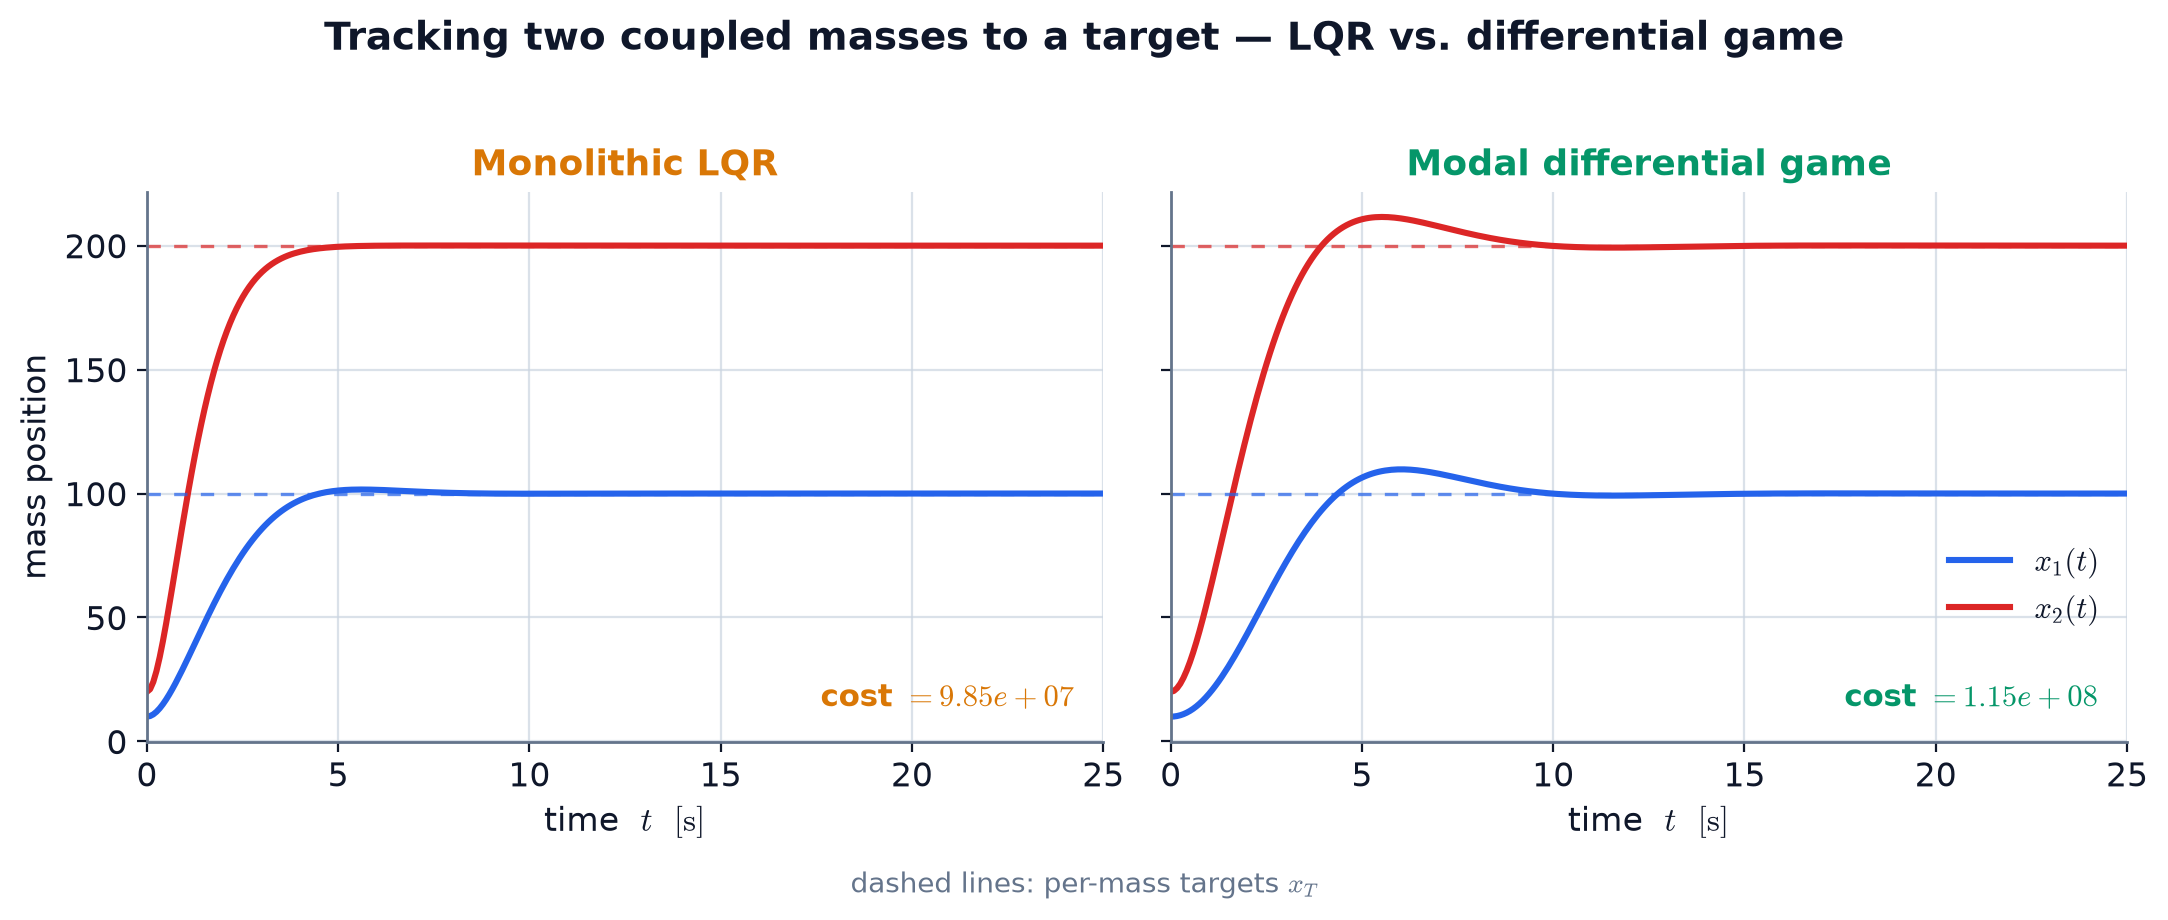
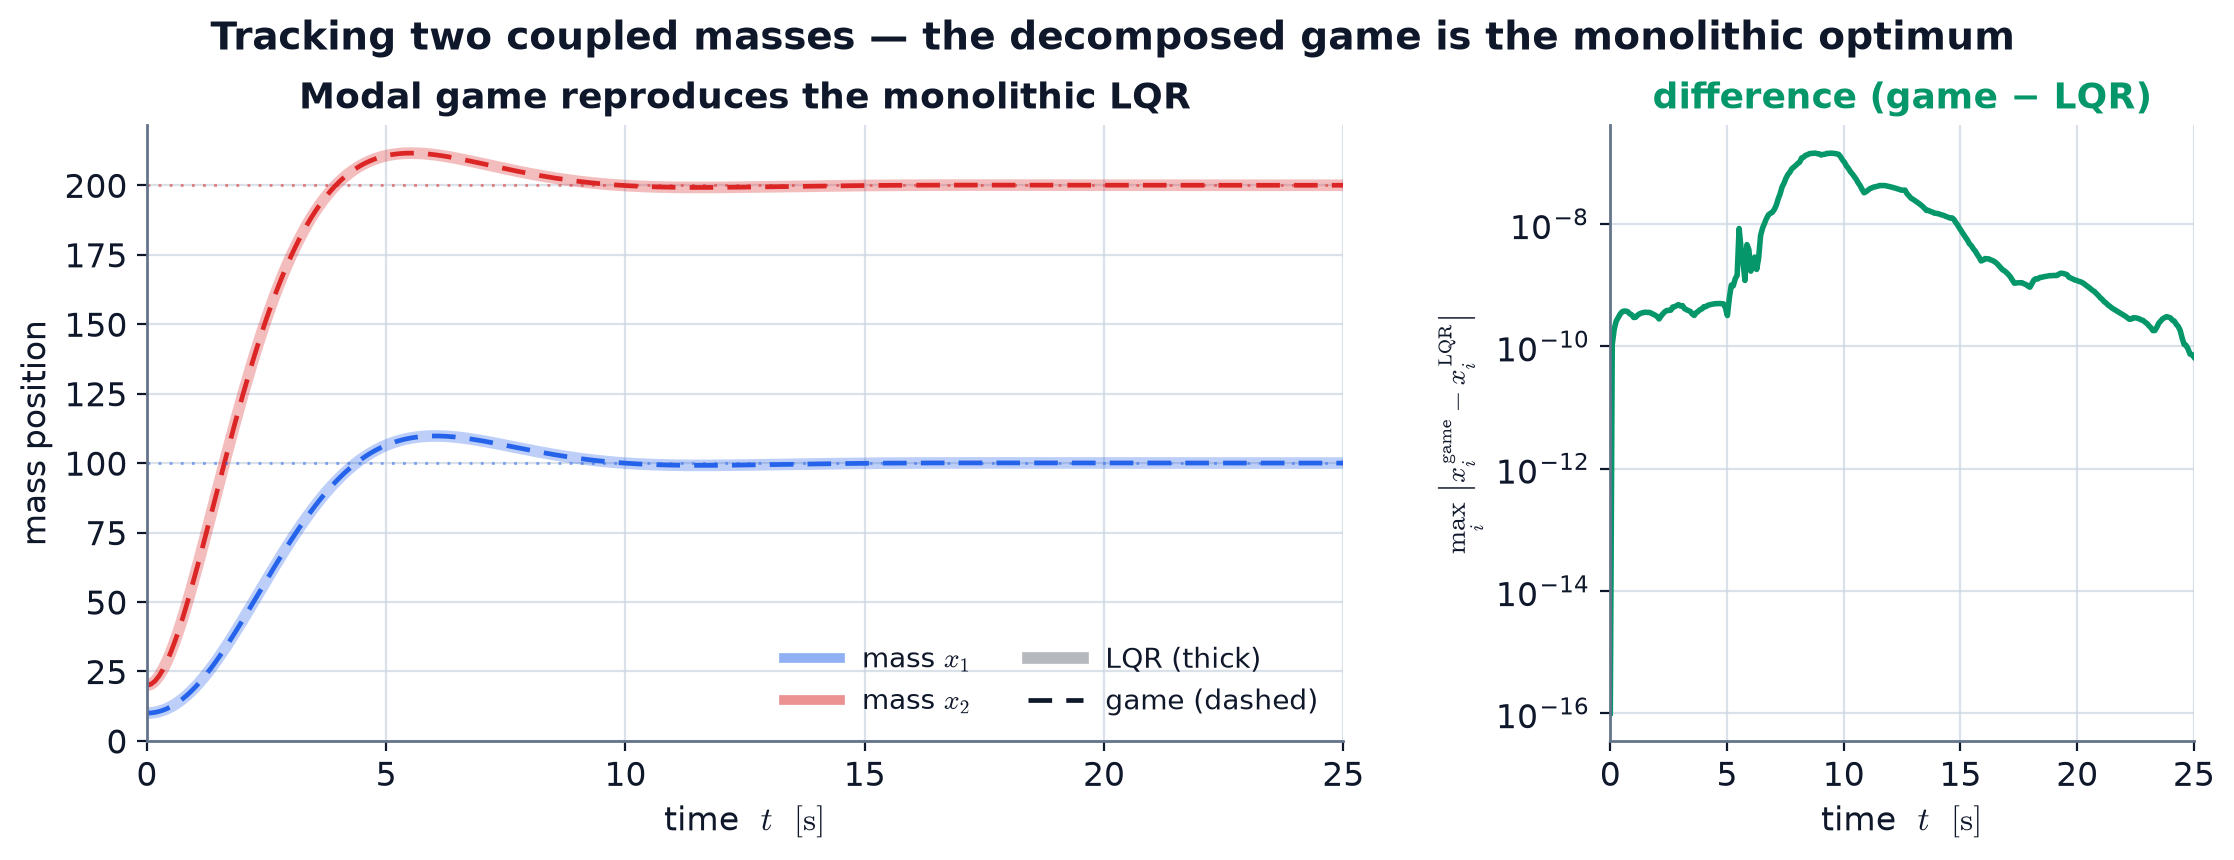
Fix masses comparison fairness; redraw springs as helical coils
Simulations review (critical finding): the masses LQR-vs-game comparison
was scored on the LQR's own, cheaper objective (Q in physical coords,
R=0.25r), making the LQR look optimal by construction. Fix the LQR
baseline to optimize the exact aggregate of the game's objectives
(sum_i Q_i, R=r*I). The decomposed modal game then reproduces the
monolithic optimum to numerical precision (cost gap ~1e-11, trajectory
difference ~1e-7): the modal decomposition is lossless.

Figures review: replace the ellipse-chain springs with a continuous
helical coil; redesign the trajectory figure as an LQR/game overlay plus
a difference panel; make the cost figure show the lossless result; fix
legend/title collisions. README narrative updated to the honest result.

Claude-Session: https://claude.ai/code/session_013KvuS9HKbnZAwwFJyBkyHc

diff --git a/tools/generate_readme_figures.py b/tools/generate_readme_figures.py
@@ -20,7 +20,8 @@ matplotlib.use("Agg")
 import matplotlib.pyplot as plt
 import numpy as np
 from cycler import cycler
-from matplotlib.patches import Ellipse, FancyArrowPatch, Rectangle
+from matplotlib.lines import Line2D
+from matplotlib.patches import FancyArrowPatch, Rectangle
 
 from PyDiffGame.examples.MassesWithSpringsComparison import MassesWithSpringsComparison
 
@@ -80,28 +81,25 @@ def _style() -> None:
 # --------------------------------------------------------------------------- #
 # Figure 1 — masses-and-springs system schematic (faithful to the TikZ original)
 # --------------------------------------------------------------------------- #
-def _coil(ax, x0: float, x1: float, y: float, *, radius: float = 0.32) -> None:
-    """Draw a helical coil spring between ``(x0, y)`` and ``(x1, y)``."""
-    lead = 0.08 * (x1 - x0)
-    ax.plot([x0, x0 + lead], [y, y], color=STRUCT, lw=2.0, solid_capstyle="round", zorder=2)
-    ax.plot([x1 - lead, x1], [y, y], color=STRUCT, lw=2.0, solid_capstyle="round", zorder=2)
+def _coil(ax, x0: float, x1: float, y: float, *, radius: float = 0.34, coils_per_unit: float = 3.2) -> None:
+    """Draw a continuous, tightly-wound helical coil spring between ``(x0, y)`` and ``(x1, y)``.
 
-    span = (x1 - lead) - (x0 + lead)
-    n = max(6, int(round(span / 0.42)))
-    step = span / n
-    for i in range(n):
-        cx = x0 + lead + step * (i + 0.5)
-        ax.add_patch(
-            Ellipse(
-                (cx, y),
-                width=step * 1.75,
-                height=2 * radius,
-                fill=False,
-                edgecolor=STRUCT,
-                lw=2.0,
-                zorder=2,
-            )
-        )
+    The coil is a single parametric polyline: an axial advance plus a circular
+    ``(cos, sin)`` component so consecutive turns overlap into visible loops
+    (a slinky-like helix), rather than a chain of separate rings. ``coils_per_unit``
+    is shared across springs so every spring has the same pitch.
+    """
+    lead = 0.07 * (x1 - x0)
+    xa, xb = x0 + lead, x1 - lead
+    span = xb - xa
+    n = max(7, int(round(span * coils_per_unit)))
+    theta = np.linspace(0.0, 2.0 * np.pi * n, n * 80)
+    cx = xa + span * (theta / (2.0 * np.pi * n)) + radius * np.cos(theta)
+    cy = y + radius * np.sin(theta)
+    # straight leads from the attachment points to the first/last coil points
+    ax.plot([x0, cx[0]], [y, cy[0]], color=STRUCT, lw=2.0, solid_capstyle="round", zorder=2)
+    ax.plot([cx[-1], x1], [cy[-1], y], color=STRUCT, lw=2.0, solid_capstyle="round", zorder=2)
+    ax.plot(cx, cy, color=STRUCT, lw=2.0, solid_capstyle="round", solid_joinstyle="round", zorder=2)
 
 
 def _hatched(ax, x: float, y: float, w: float, h: float) -> None:
@@ -232,75 +230,82 @@ def _solve_benchmark():
 def figure_trajectories(lqr_game, game, lqr_cost, game_cost, x_T) -> None:
     _style()
     t = lqr_game.forward_time
-    fig, axes = plt.subplots(1, 2, figsize=(11, 4.2), sharey=True)
+    fig, (ax, axd) = plt.subplots(1, 2, figsize=(11.5, 4.4), gridspec_kw={"width_ratios": [2.05, 1.0]})
 
-    panels = (
-        (axes[0], lqr_game, "Monolithic LQR", lqr_cost, AMBER),
-        (axes[1], game, "Modal differential game", game_cost, GREEN),
+    # ---- overlay: the decomposed game coincides with the monolithic LQR ---
+    ax.plot(t, lqr_game.x[:, 0], color=BLUE, lw=4.2, alpha=0.30, solid_capstyle="round")
+    ax.plot(t, lqr_game.x[:, 1], color=RED, lw=4.2, alpha=0.30, solid_capstyle="round")
+    ax.plot(t, game.x[:, 0], color=BLUE, lw=1.7, ls=(0, (5, 3)))
+    ax.plot(t, game.x[:, 1], color=RED, lw=1.7, ls=(0, (5, 3)))
+    for tgt, col in ((x_T[0], BLUE), (x_T[1], RED)):
+        ax.axhline(tgt, color=col, ls=(0, (1, 3)), lw=1.0, alpha=0.55)
+    ax.set_title("Modal game reproduces the monolithic LQR", color=INK)
+    ax.set_xlabel(r"time  $t$  $[\mathrm{s}]$")
+    ax.set_ylabel("mass position")
+    ax.set_xlim(t[0], t[-1])
+    handles = [
+        Line2D([0], [0], color=BLUE, lw=3.5, alpha=0.5),
+        Line2D([0], [0], color=RED, lw=3.5, alpha=0.5),
+        Line2D([0], [0], color=INK, lw=4.2, alpha=0.30),
+        Line2D([0], [0], color=INK, lw=1.7, ls=(0, (5, 3))),
+    ]
+    ax.legend(
+        handles,
+        [r"mass $x_1$", r"mass $x_2$", "LQR (thick)", "game (dashed)"],
+        loc="lower right",
+        ncol=2,
+        fontsize=10,
     )
-    for ax, g, title, cost, accent in panels:
-        ax.plot(t, g.x[:, 0], color=BLUE, lw=2.2, label=r"$x_1(t)$")
-        ax.plot(t, g.x[:, 1], color=RED, lw=2.2, label=r"$x_2(t)$")
-        ax.axhline(x_T[0], color=BLUE, ls=(0, (4, 4)), lw=1.2, alpha=0.7)
-        ax.axhline(x_T[1], color=RED, ls=(0, (4, 4)), lw=1.2, alpha=0.7)
-        ax.set_title(title, color=accent)
-        ax.set_xlabel(r"time  $t$  $[\mathrm{s}]$")
-        ax.set_xlim(t[0], t[-1])
-        ax.text(
-            0.97,
-            0.05,
-            rf"cost $= {cost:.2e}$",
-            transform=ax.transAxes,
-            ha="right",
-            va="bottom",
-            color=accent,
-            fontsize=11,
-            fontweight="bold",
-        )
-    axes[0].set_ylabel("mass position")
-    axes[1].legend(loc="lower right", bbox_to_anchor=(1.0, 0.16), fontsize=11)
+
+    # ---- difference panel: they match to numerical precision --------------
+    diff = np.max(np.abs(game.x - lqr_game.x), axis=1)
+    axd.semilogy(t, np.maximum(diff, 1e-16), color=GREEN, lw=2.0)
+    axd.set_title("difference (game − LQR)", color=GREEN)
+    axd.set_xlabel(r"time  $t$  $[\mathrm{s}]$")
+    axd.set_ylabel(r"$\max_i\,\left|x_i^{\mathrm{game}}-x_i^{\mathrm{LQR}}\right|$", fontsize=10)
+    axd.set_xlim(t[0], t[-1])
+
     fig.suptitle(
-        "Tracking two coupled masses to a target — LQR vs. differential game",
+        "Tracking two coupled masses — the decomposed game is the monolithic optimum",
         fontsize=14,
         fontweight="bold",
-        y=1.02,
     )
-    fig.text(0.5, -0.02, "dashed lines: per-mass targets $x_T$", ha="center", color=MUTED, fontsize=10)
-    fig.tight_layout()
+    fig.subplots_adjust(top=0.86, bottom=0.16, wspace=0.30, left=0.08, right=0.97)
     fig.savefig(OUT / "masses_game_vs_lqr.png")
     plt.close(fig)
 
 
 def figure_cost(lqr_cost, game_cost) -> None:
     _style()
-    fig, ax = plt.subplots(figsize=(5.4, 4.0))
+    fig, ax = plt.subplots(figsize=(6.0, 4.2))
     labels = ["Monolithic\nLQR", "Modal\ngame"]
     values = [lqr_cost, game_cost]
-    bars = ax.bar(labels, values, color=[AMBER, GREEN], width=0.6, edgecolor=INK, lw=1.2, alpha=0.92)
-    ax.set_ylabel("cost on the LQR objective")
-    ax.set_title("Near-optimal cost from a fully decomposed design")
+    bars = ax.bar(labels, values, color=[AMBER, GREEN], width=0.58, edgecolor=INK, lw=1.3)
+    ax.set_ylabel("cost on the shared objective")
+    ax.set_title("Modal decomposition is lossless")
     ax.ticklabel_format(style="sci", axis="y", scilimits=(0, 0))
-    overhead = 100.0 * (game_cost - lqr_cost) / lqr_cost
+    gap = 100.0 * (game_cost - lqr_cost) / lqr_cost
+    gap_str = "Δcost ≈ 0%" if abs(gap) < 0.05 else f"Δcost {gap:+.1f}%"
     for bar, val in zip(bars, values):
         ax.text(
             bar.get_x() + bar.get_width() / 2,
             val,
-            f"{val:.2e}",
+            f"{val:.3e}",
             ha="center",
             va="bottom",
             fontsize=10,
             color=INK,
         )
-    ax.annotate(
-        f"+{overhead:.0f}% vs. optimal",
-        xy=(1, game_cost),
-        xytext=(0.5, max(values) * 1.12),
+    ax.text(
+        0.5,
+        max(values) * 1.15,
+        f"the game recovers the optimum  ({gap_str})",
         ha="center",
         color=GREEN,
-        fontsize=11,
+        fontsize=11.5,
         fontweight="bold",
     )
-    ax.set_ylim(0, max(values) * 1.25)
+    ax.set_ylim(0, max(values) * 1.30)
     fig.tight_layout()
     fig.savefig(OUT / "masses_cost.png")
     plt.close(fig)

diff --git a/src/PyDiffGame/examples/MassesWithSpringsComparison.py b/src/PyDiffGame/examples/MassesWithSpringsComparison.py
@@ -66,10 +66,15 @@ class MassesWithSpringsComparison(PyDiffGameLQRComparison):
             Q_i = modal_to_state.T @ modal_weight @ modal_to_state
             game_objectives.append(GameObjective(Q=Q_i, R=r, M=M_i))
 
-        Q_lqr = (q if isinstance(q, (int, float)) else 1.0) * np.eye(2 * N)
-        if not isinstance(q, (int, float)):
-            Q_lqr = np.diag(list(q) + list(q))
-        lqr_objective = [LQRObjective(Q=Q_lqr, R=0.25 * r * I_N)]
+        # The LQR baseline optimizes *exactly* the aggregate of the game's
+        # objectives, so it is the genuine monolithic optimum for a fair
+        # comparison: sum_i Q_i, and the matching physical input weight r * I
+        # (the per-player modal weight r maps to r * I in physical input space
+        # because the modal transform M is orthogonal). The game, being a
+        # decomposed design, can only match or exceed this optimal cost.
+        modal_weight_total = np.diag(q_per_mode + q_per_mode)
+        Q_lqr = modal_to_state.T @ modal_weight_total @ modal_to_state
+        lqr_objective = [LQRObjective(Q=Q_lqr, R=r * I_N)]
 
         state_variables_names = [f"x_{{{i}}}" for i in range(1, N + 1)] + [
             rf"\dot{{x}}_{{{i}}}" for i in range(1, N + 1)

diff --git a/README.md b/README.md
@@ -213,7 +213,11 @@ for i, (q_i, M_i) in enumerate(zip(q, Ms)):
     modal_weight = np.diag([0.0] * i + [q_i] + [0.0] * (N - 1) + [q_i] + [0.0] * (N - i - 1))
     game_objectives.append(GameObjective(Q=modal_to_state.T @ modal_weight @ modal_to_state, R=r, M=M_i))
 
-lqr_objective = [LQRObjective(Q=np.diag(q + q), R=0.25 * r * I_N)]
+# The LQR baseline optimizes exactly the aggregate of the game's objectives
+# (sum of the per-mode Q_i, and the matching physical input weight r * I), so
+# it is the genuine monolithic optimum to compare the decomposed game against:
+modal_weight_total = np.diag(q + q)
+lqr_objective = [LQRObjective(Q=modal_to_state.T @ modal_weight_total @ modal_to_state, R=r * I_N)]
 
 x_0 = np.array([10.0, 20.0, 0.0, 0.0])
 comparison = PyDiffGameLQRComparison(
@@ -233,21 +237,23 @@ Run the bundled example end-to-end:
 uv run python -m PyDiffGame.examples.MassesWithSpringsComparison
 ```
 
-Both controllers drive the two masses to their targets. The monolithic LQR is the
-cost-optimal baseline; the **fully decomposed** modal game — where each mode is solved as
-an independent player and only *coupled* through the shared dynamics — reaches the same
-targets and comes within a small margin of the optimal cost:
+The monolithic LQR is, by construction, the optimal controller for the *aggregate* of the
+game's objectives. The **fully decomposed** modal game — where each vibration mode is
+solved as an independent player, coupled only through the shared dynamics — reproduces that
+monolithic optimum **to numerical precision**: the two state trajectories coincide
+(they differ by ~10⁻⁷) and the costs are equal:
 
 <p align="center">
-    <img alt="State trajectories: LQR vs. differential game" src="images/readme/masses_game_vs_lqr.png" width="820"/>
+    <img alt="State trajectories: the decomposed game reproduces the monolithic LQR" src="images/readme/masses_game_vs_lqr.png" width="860"/>
 </p>
 
 <p align="center">
-    <img alt="Cost comparison: LQR vs. modal game" src="images/readme/masses_cost.png" width="440"/>
+    <img alt="Cost comparison: the modal game recovers the LQR optimum" src="images/readme/masses_cost.png" width="440"/>
 </p>
 
-That small overhead buys **compositionality**: you can add, drop or re-weight a control
-task by editing a single player, without re-tuning one monolithic cost matrix.
+For this modally-decoupled system the decomposition is **lossless** — and it buys
+**compositionality**: you can add, drop or re-weight a control task by editing a single
+player, without re-tuning one monolithic cost matrix.
 
 > The figures above are regenerated from the live solver by
 > [`tools/generate_readme_figures.py`](tools/generate_readme_figures.py)
